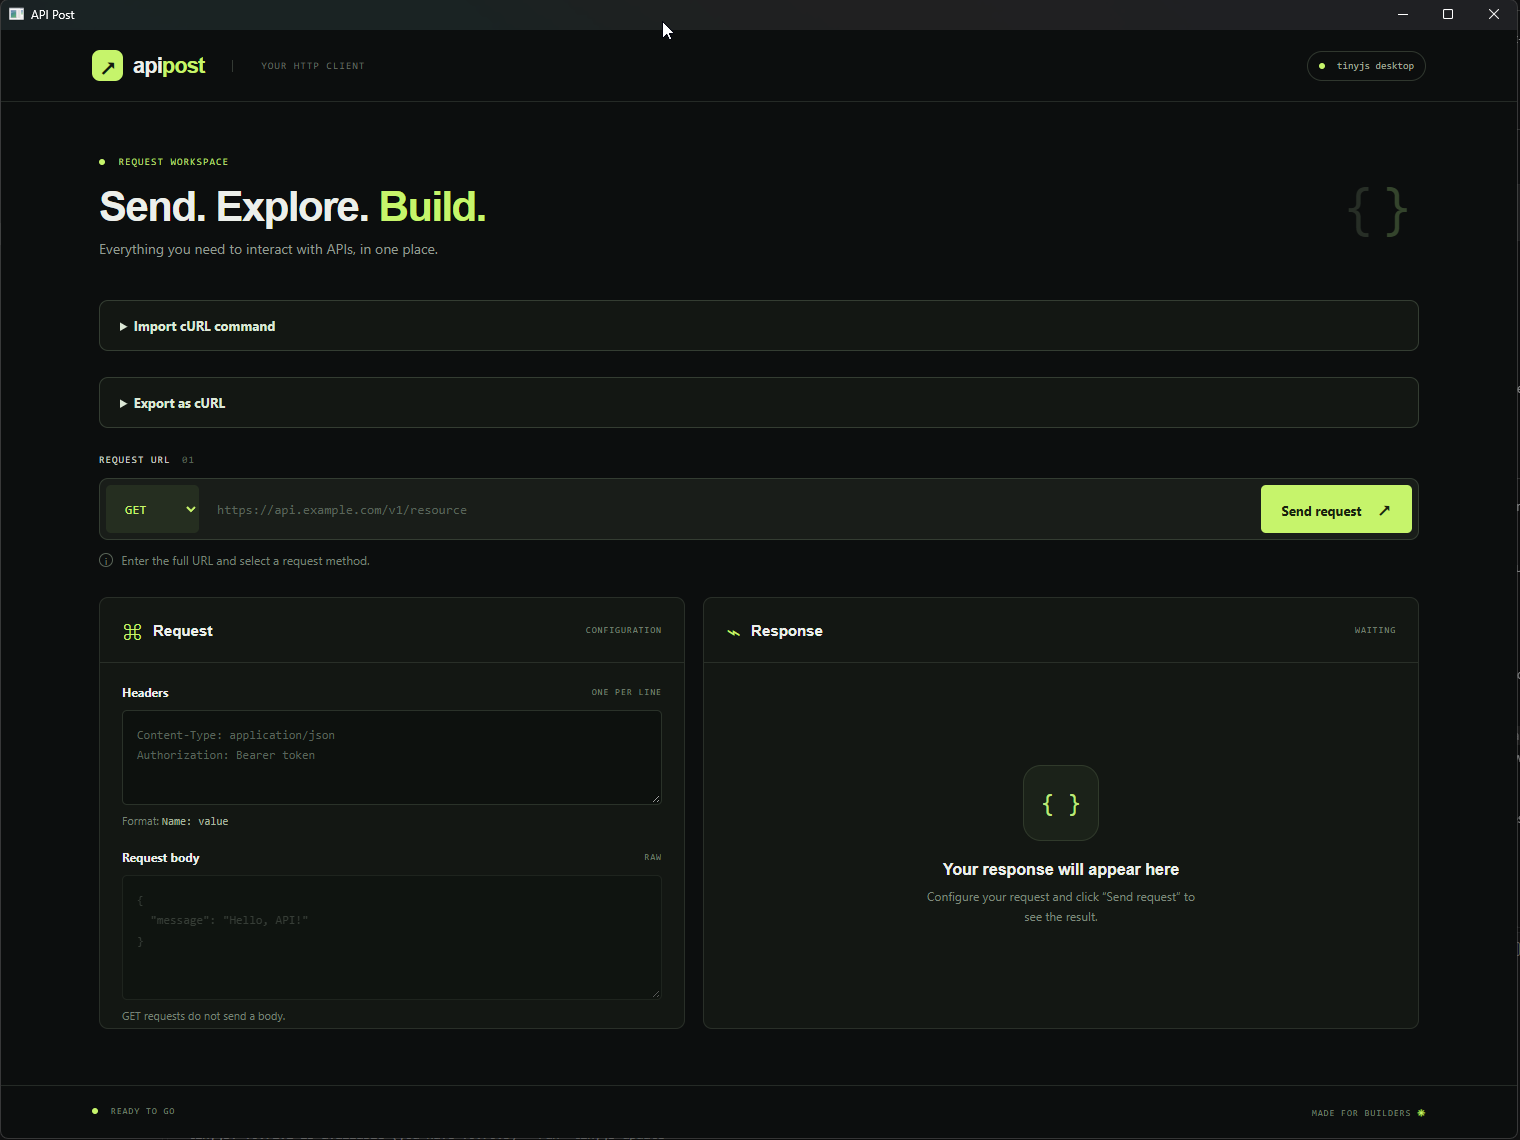
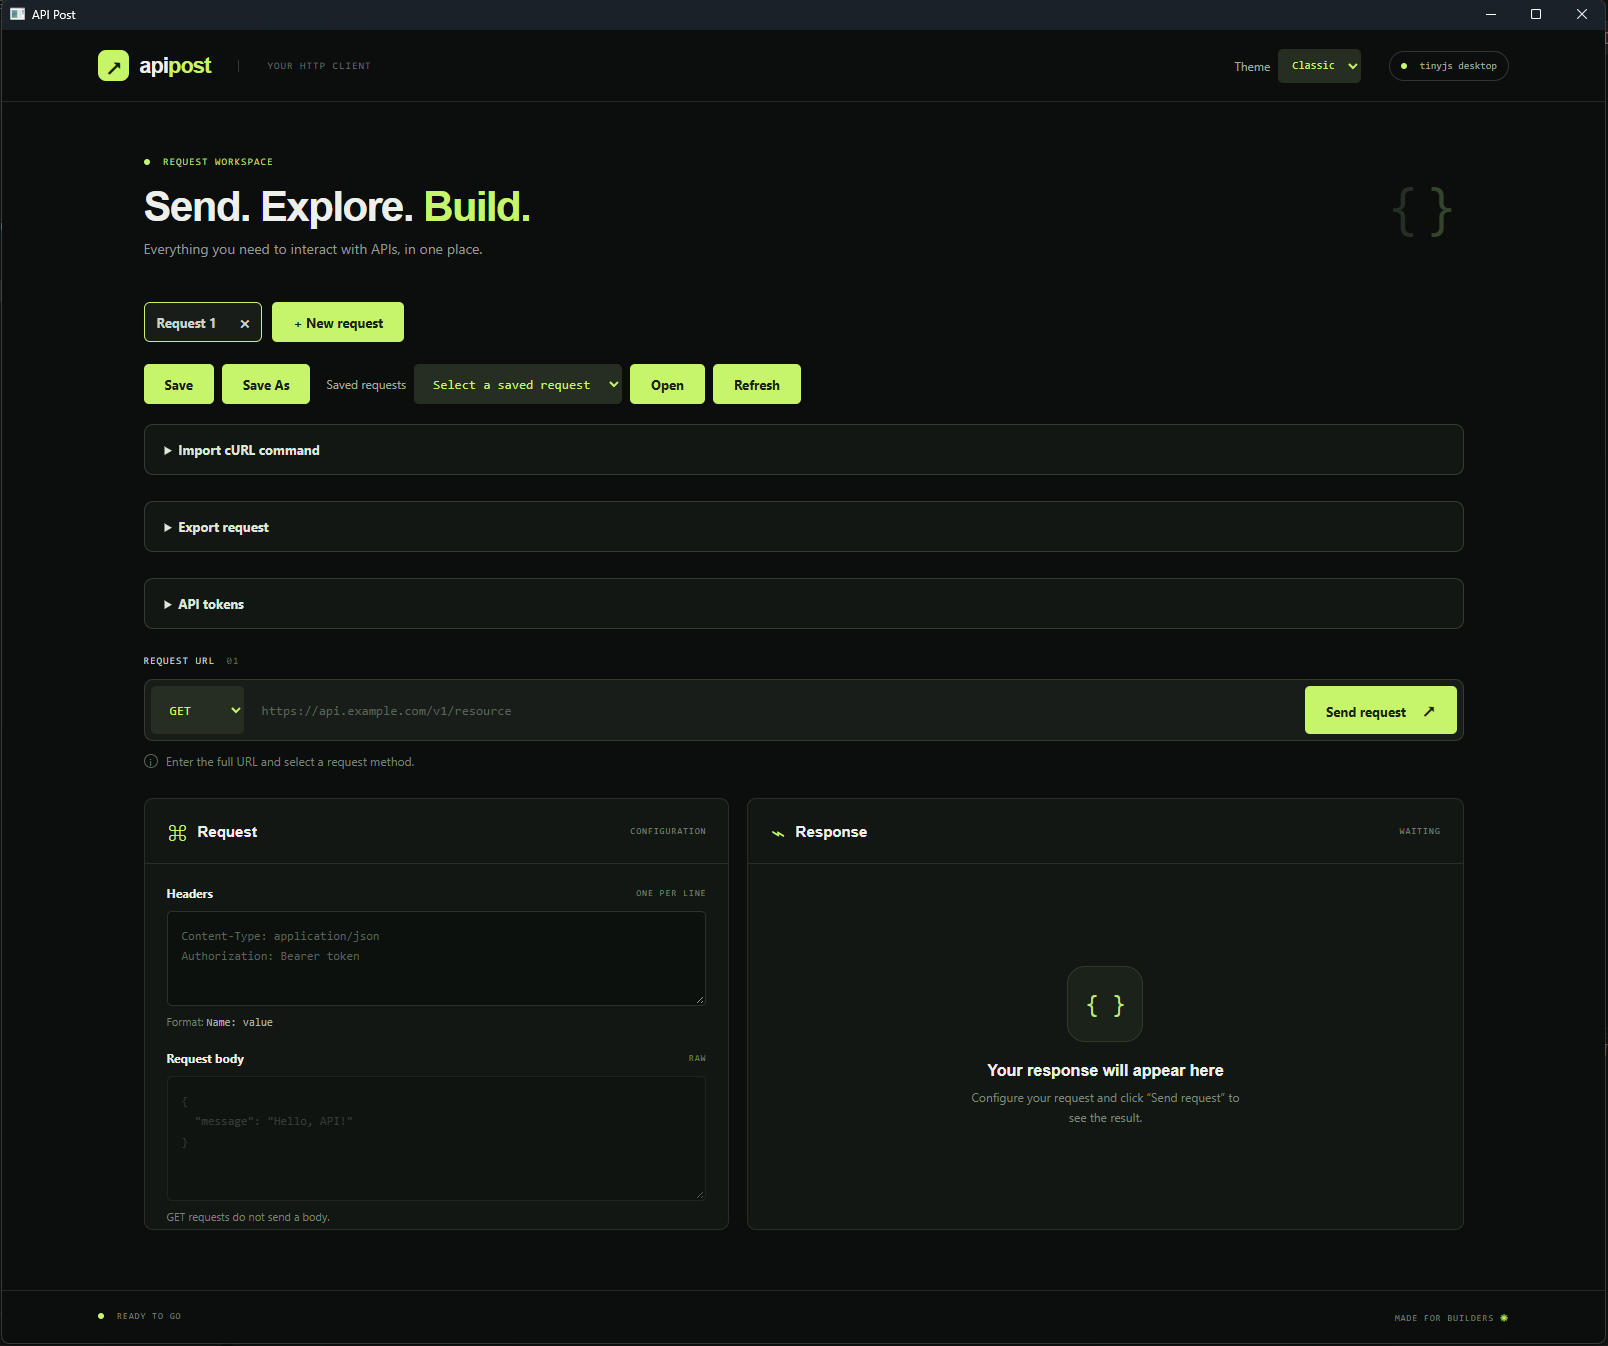
Enhance export functionality with multiple formats and improve UI for request export

diff --git a/src/frontend/curl.js b/src/frontend/curl.js
@@ -148,7 +148,9 @@ function parseCurl(command) {
   return { url, method, headers: headers.map(([name, value]) => `${name}: ${value}`).join('\n'), body: data.join('&') };
 }
 
-function exportCurl({ url, method, headers, body }) {
+const HEADER_NAME = /^[!#$%&'*+.^_`|~0-9A-Za-z-]+$/;
+
+function prepareExport({ url, method, headers, body }) {
   let parsedUrl;
   try {
     parsedUrl = new URL(url);
@@ -159,27 +161,85 @@ function exportCurl({ url, method, headers, body }) {
   if (parsedUrl.username || parsedUrl.password) throw new Error('URLs containing credentials cannot be exported.');
   if (!['GET', 'POST', 'PUT', 'PATCH', 'DELETE', 'HEAD'].includes(method)) throw new Error(`Unsupported request method: ${method}`);
 
+  const entries = Object.entries(headers);
+  for (const [name, value] of entries) {
+    if (!HEADER_NAME.test(name) || /[\r\n\0]/.test(value)) throw new Error(`Invalid header: ${name}`);
+  }
+  const hasBody = method !== 'GET' && method !== 'HEAD' && body !== '';
+  if (hasBody && !entries.some(([name]) => name.toLowerCase() === 'content-type')) {
+    entries.push(['Content-Type', 'text/plain;charset=UTF-8']);
+  }
+  return { url, method, headers: entries, body: hasBody ? body : null };
+}
+
+function shellQuote(value) {
+  if (value.includes('\0')) throw new Error('NUL characters cannot be represented in a shell command.');
+  return `'${value.replace(/'/g, "'\\''")}'`;
+}
+
+function curlArguments(request) {
+  const args = ['--globoff', '--location', `--url=${shellQuote(request.url)}`];
+  args.push(request.method === 'HEAD' ? '--head' : `--request=${shellQuote(request.method)}`);
+  for (const [name, value] of request.headers) {
+    args.push(`--header=${shellQuote(value ? `${name}: ${value}` : `${name};`)}`);
+  }
+  if (request.body !== null) args.push(`--data-raw=${shellQuote(request.body)}`);
+  return args;
+}
+
+function exportCurl(request) {
+  return ['curl', ...curlArguments(prepareExport(request))].join(' ');
+}
+
+function exportBash(request) {
+  const lines = ['curl', ...curlArguments(prepareExport(request))];
+  return `#!/usr/bin/env bash\nset -euo pipefail\n\n${lines.join(' \\\n  ')}\n`;
+}
+
+function exportPowerShell(request) {
+  // PowerShell treats typographic single quotes as quote characters too.
   const quote = (value) => {
-    if (value.includes('\0')) throw new Error('NUL characters cannot be represented in a shell command.');
-    return `'${value.replace(/'/g, "'\\''")}'`;
+    if (value.includes('\0')) throw new Error('NUL characters cannot be represented in a PowerShell script.');
+    return `'${value.replace(/['\u2018\u2019\u201A\u201B]/g, (char) => char + char)}'`;
   };
-  const command = ['curl', '--globoff', '--location', `--url=${quote(url)}`];
-  if (method === 'HEAD') command.push('--head');
-  else command.push(`--request=${quote(method)}`);
-  for (const [name, value] of Object.entries(headers)) {
-    if (!/^[!#$%&'*+.^_`|~0-9A-Za-z-]+$/.test(name) || /[\r\n\0]/.test(value)) {
-      throw new Error(`Invalid header: ${name}`);
-    }
-    command.push(`--header=${quote(value ? `${name}: ${value}` : `${name};`)}`);
+  const prepared = prepareExport(request);
+  let headers = prepared.headers;
+  let contentType = null;
+  if (prepared.body !== null) {
+    contentType = headers.find(([name]) => name.toLowerCase() === 'content-type')[1];
+    headers = headers.filter(([name]) => name.toLowerCase() !== 'content-type');
   }
-  if (method !== 'GET' && method !== 'HEAD' && body !== '') {
-    if (!Object.keys(headers).some((name) => name.toLowerCase() === 'content-type')) {
-      command.push(`--header=${quote('Content-Type: text/plain;charset=UTF-8')}`);
-    }
-    command.push(`--data-raw=${quote(body)}`);
+  const lines = ['$params = @{', `    Uri = ${quote(prepared.url)}`, `    Method = ${quote(prepared.method)}`];
+  if (headers.length) {
+    lines.push('    Headers = @{', ...headers.map(([name, value]) => `        ${quote(name)} = ${quote(value)}`), '    }');
   }
-  return command.join(' ');
+  if (contentType !== null) lines.push(`    ContentType = ${quote(contentType)}`);
+  if (prepared.body !== null) lines.push(`    Body = ${quote(prepared.body)}`);
+  lines.push('    UseBasicParsing = $true', '}', '', '$response = Invoke-WebRequest @params', '$response.StatusCode', '$response.Content');
+  return `${lines.join('\n')}\n`;
+}
+
+function exportPython(request) {
+  // A JSON string literal is also a valid Python string literal.
+  const quote = (value) => JSON.stringify(value);
+  const prepared = prepareExport(request);
+  const lines = ['import requests', '', 'response = requests.request(', `    ${quote(prepared.method)},`, `    ${quote(prepared.url)},`];
+  if (prepared.headers.length) {
+    lines.push('    headers={', ...prepared.headers.map(([name, value]) => `        ${quote(name)}: ${quote(value)},`), '    },');
+  }
+  if (prepared.body !== null) lines.push(`    data=${quote(prepared.body)}.encode("utf-8"),`);
+  lines.push(')', '', 'print(response.status_code)', 'print(response.text)');
+  return `${lines.join('\n')}\n`;
+}
+
+const EXPORTERS = { curl: exportCurl, bash: exportBash, powershell: exportPowerShell, python: exportPython };
+
+function exportRequest(format, request) {
+  const exporter = Object.hasOwn(EXPORTERS, format) ? EXPORTERS[format] : undefined;
+  if (!exporter) throw new Error(`Unsupported export format: ${format}`);
+  return exporter(request);
 }
 
 globalThis.parseCurl = parseCurl;
 globalThis.exportCurl = exportCurl;
+globalThis.exportRequest = exportRequest;

diff --git a/tests/curl.test.js b/tests/curl.test.js
@@ -4,6 +4,7 @@ import '../src/frontend/curl.js';
 
 const parseCurl = globalThis.parseCurl;
 const exportCurl = globalThis.exportCurl;
+const exportRequest = globalThis.exportRequest;
 
 test('imports a quoted multiline POST with headers and JSON', () => {
   const command = `curl 'https://example.com/api?x=1&y=2' \\
@@ -95,3 +96,66 @@ test('rejects request values that cannot be exported faithfully', () => {
   assert.throws(() => exportCurl({ ...request, headers: { 'bad name': 'x' } }), /Invalid header/);
   assert.throws(() => exportCurl({ ...request, body: 'x\0y' }), /NUL/);
 });
+
+const sample = {
+  url: 'https://example.com/a?x=1&y=2',
+  method: 'POST',
+  headers: { 'Content-Type': 'application/json', 'X-Note': "it's \u2018quoted\u2019" },
+  body: '{"text":"it\'s $HOME","line":"a\\nb"}\nsecond',
+};
+
+test('exportRequest curl matches exportCurl and rejects unknown formats', () => {
+  assert.equal(exportRequest('curl', sample), exportCurl(sample));
+  assert.throws(() => exportRequest('ruby', sample), /Unsupported export format/);
+  assert.throws(() => exportRequest('toString', sample), /Unsupported export format/);
+});
+
+test('exports a Bash script that wraps the same cURL arguments', () => {
+  const script = exportRequest('bash', sample);
+  assert.match(script, /^#!\/usr\/bin\/env bash\nset -euo pipefail\n\ncurl \\\n  --globoff \\\n  --location \\\n  --url=/);
+  const command = script.split('\n\n')[1].replace(/ \\\n {2}/g, ' ').trim();
+  assert.deepEqual(parseCurl(command), parseCurl(exportCurl(sample)));
+});
+
+test('exports PowerShell with escaped quotes and a ContentType parameter', () => {
+  const script = exportRequest('powershell', sample);
+  assert.match(script, /Uri = 'https:\/\/example\.com\/a\?x=1&y=2'/);
+  assert.match(script, /Method = 'POST'/);
+  assert.match(script, /ContentType = 'application\/json'/);
+  assert.doesNotMatch(script, /'Content-Type'/);
+  assert.match(script, /'X-Note' = 'it''s \u2018\u2018quoted\u2019\u2019'/);
+  assert.match(script, /Body = '\{"text":"it''s \$HOME","line":"a\\nb"\}\nsecond'/);
+  assert.match(script, /Invoke-WebRequest @params/);
+  assert.match(exportRequest('powershell', { ...sample, method: 'GET', headers: { 'Content-Type': 'text/plain' } }), /Headers = @\{\n {8}'Content-Type' = 'text\/plain'/);
+  assert.throws(() => exportRequest('powershell', { ...sample, body: 'x\0y' }), /NUL/);
+});
+
+test('exports Python with valid string literals and a default Content-Type', () => {
+  const script = exportRequest('python', { url: 'https://example.com', method: 'PUT', headers: { 'X-A': 'q"\\' }, body: 'é\0"' });
+  assert.equal(script, [
+    'import requests',
+    '',
+    'response = requests.request(',
+    '    "PUT",',
+    '    "https://example.com",',
+    '    headers={',
+    '        "X-A": "q\\"\\\\",',
+    '        "Content-Type": "text/plain;charset=UTF-8",',
+    '    },',
+    '    data="é\\u0000\\"".encode("utf-8"),',
+    ')',
+    '',
+    'print(response.status_code)',
+    'print(response.text)',
+    '',
+  ].join('\n'));
+  assert.doesNotMatch(exportRequest('python', { ...sample, method: 'GET' }), /data=/);
+});
+
+test('all export formats validate the request', () => {
+  for (const format of ['curl', 'bash', 'powershell', 'python']) {
+    assert.throws(() => exportRequest(format, { ...sample, url: 'file:///x' }), /HTTP and HTTPS/);
+    assert.throws(() => exportRequest(format, { ...sample, headers: { 'bad name': 'x' } }), /Invalid header/);
+  }
+});
+

diff --git a/src/frontend/app.js b/src/frontend/app.js
@@ -247,16 +247,37 @@ $('tab-open').addEventListener('click', () => withTabFiles(async () => {
 }));
 withTabFiles(refreshSavedTabs);
 
+const exportHelp = {
+  curl: 'Single-line cURL command using POSIX shell syntax. It may contain credentials.',
+  bash: 'Bash script using cURL (requires curl). It may contain credentials.',
+  powershell: 'PowerShell script using Invoke-WebRequest. It may contain credentials.',
+  python: 'Python script using the requests library. It may contain credentials.',
+};
+const exportFormatInputs = document.querySelectorAll('input[name="export-format"]');
+const exportFormat = () => document.querySelector('input[name="export-format"]:checked').value;
+const exportLabel = () => document.querySelector('input[name="export-format"]:checked').parentElement.textContent.trim();
+
 function clearCurlExport() {
   $('curl-export-output').value = '';
   $('curl-copy').disabled = true;
   $('curl-export-message').hidden = true;
 }
 
+function updateExportHelp() {
+  $('export-help').textContent = exportHelp[exportFormat()];
+}
+
 for (const id of ['url', 'method', 'headers', 'body']) {
   $(id).addEventListener('input', clearCurlExport);
   $(id).addEventListener('change', clearCurlExport);
 }
+for (const input of exportFormatInputs) {
+  input.addEventListener('change', () => {
+    clearCurlExport();
+    updateExportHelp();
+  });
+}
+updateExportHelp();
 
 method.addEventListener('change', updateBodyState);
 updateBodyState();
@@ -362,17 +383,17 @@ $('curl-export').addEventListener('click', () => {
   const message = $('curl-export-message');
   clearCurlExport();
   try {
-    $('curl-export-output').value = exportCurl({
+    $('curl-export-output').value = exportRequest(exportFormat(), {
       url: $('url').value.trim(),
       method: method.value,
       headers: parseHeaders($('headers').value),
       body: body.value,
     });
     $('curl-copy').disabled = false;
-    message.textContent = 'Command generated. Review it before sharing or running it.';
+    message.textContent = `${exportLabel()} code generated. Review it before sharing or running it.`;
     message.className = 'curl-message success';
   } catch (error) {
-    message.textContent = `Could not export cURL: ${error instanceof Error ? error.message : String(error)}`;
+    message.textContent = `Could not export ${exportLabel()}: ${error instanceof Error ? error.message : String(error)}`;
     message.className = 'curl-message import-error';
   }
   message.hidden = false;
@@ -382,10 +403,10 @@ $('curl-copy').addEventListener('click', async () => {
   const message = $('curl-export-message');
   try {
     await tiny.clipboard.write({ text: $('curl-export-output').value });
-    message.textContent = 'Command copied to the clipboard.';
+    message.textContent = 'Code copied to the clipboard.';
     message.className = 'curl-message success';
   } catch (error) {
-    message.textContent = `Could not copy command: ${error instanceof Error ? error.message : String(error)}`;
+    message.textContent = `Could not copy code: ${error instanceof Error ? error.message : String(error)}`;
     message.className = 'curl-message import-error';
   }
   message.hidden = false;

diff --git a/src/frontend/index.html b/src/frontend/index.html
@@ -60,15 +60,22 @@
           </div>
         </details>
         <details class="curl-import">
-          <summary>Export as cURL</summary>
+          <summary>Export request</summary>
           <div class="curl-content">
-            <label for="curl-export-output">Generated cURL command</label>
-            <textarea id="curl-export-output" readonly spellcheck="false" placeholder="Generate a command from the current request."></textarea>
+            <fieldset class="export-formats">
+              <legend>Format</legend>
+              <label><input type="radio" name="export-format" value="curl" checked> cURL</label>
+              <label><input type="radio" name="export-format" value="bash"> Bash</label>
+              <label><input type="radio" name="export-format" value="powershell"> PowerShell</label>
+              <label><input type="radio" name="export-format" value="python"> Python</label>
+            </fieldset>
+            <label for="curl-export-output">Exported code</label>
+            <textarea id="curl-export-output" readonly spellcheck="false" placeholder="Select a format and click Export to generate code from the current request."></textarea>
             <div class="curl-actions">
-              <p class="field-help">Uses POSIX shell syntax. The command may contain credentials.</p>
+              <p id="export-help" class="field-help"></p>
               <div class="curl-buttons">
-                <button id="curl-export" type="button">Generate command</button>
-                <button id="curl-copy" type="button" disabled>Copy command</button>
+                <button id="curl-export" type="button">Export</button>
+                <button id="curl-copy" type="button" disabled>Copy</button>
               </div>
             </div>
             <div id="curl-export-message" class="curl-message" role="status" aria-live="polite" hidden></div>

diff --git a/src/frontend/style.css b/src/frontend/style.css
@@ -48,6 +48,10 @@ h1 span { color: #c6f46b; }
 .curl-actions .field-help { margin: 0; }
 .curl-actions button { min-height: 40px; }
 .curl-buttons { display: flex; flex-wrap: wrap; gap: 8px; }
+.export-formats { border: 0; margin: 0 0 14px; padding: 0; display: flex; flex-wrap: wrap; gap: 8px 22px; }
+.export-formats legend { font-size: 12px; font-weight: 700; padding: 0; margin-bottom: 10px; }
+.curl-content .export-formats label { display: flex; align-items: center; gap: 8px; margin: 0; font-weight: 400; cursor: pointer; }
+.export-formats input { flex: none; padding: 0; margin: 0; accent-color: #a2cc69; }
 .auth-fields { display: grid; grid-template-columns: repeat(3, minmax(0, 1fr)); gap: 14px; margin-top: 18px; }
 .auth-fields input, .auth-fields select { width: 100%; min-height: 42px; border: 1px solid #2a3229; border-radius: 5px; background: #0d110e; padding: 0 12px; }
 .auth-fields select { color: #edf2e8; }

diff --git a/README.md b/README.md
@@ -48,7 +48,7 @@ The app stores tokens in `auth-keys.json` in its **working directory** (the proj
 
 In **API tokens**, enter a name and token and choose **Save token**, or select a saved name and choose **Load token**. Saving an existing name replaces its value. **Use as Bearer** puts the entered or loaded token in the `Authorization: Bearer ...` request header, replacing any existing Authorization header; it does not send the request. Refresh the list after editing the file externally.
 
-`auth-keys.json` is ignored by Git; commit only `auth-keys-example.json` without real tokens. **Tokens are stored as plaintext, not encrypted.** Protect the file with appropriate filesystem permissions and do not share or commit it. The token can also appear in request headers, exported cURL commands and the clipboard. The example contains an empty object, not credentials.
+`auth-keys.json` is ignored by Git; commit only `auth-keys-example.json` without real tokens. **Tokens are stored as plaintext, not encrypted.** Protect the file with appropriate filesystem permissions and do not share or commit it. The token can also appear in request headers, in code produced by **Export request** (cURL, Bash, PowerShell, and Python), and in the clipboard. The example contains an empty object, not credentials.
 
 For a built application, the location of `auth-keys.json` depends on the working directory from which the app is launched, not on the executable's location. Invalid non-empty files are never overwritten and must be corrected before saving. Save operations replace the file atomically, but concurrent edits by other application instances or external programs are not coordinated.
 
@@ -60,8 +60,17 @@ The importer accepts a single `curl` command using POSIX shell quoting and backs
 
 Unsupported options, file inputs, shell expansion, multiple URLs, duplicate headers, and request bodies with GET or HEAD are rejected. Empty headers use cURL's `Name;` syntax. This is not a shell: use literal values instead of environment variables or command substitution. Imported requests use the app's normal HTTP behavior, including automatic redirects; they do not reproduce all cURL transport behavior.
 
-### Exporting cURL
+### Exporting a request
 
-Open **Export as cURL** and select **Generate command**, then copy the command or use **Copy command**. Regenerate it after changing the request. The command uses POSIX shell quoting (for example, in macOS or Linux terminals), not Windows Command Prompt or PowerShell syntax. It includes the request's headers and body, which may contain credentials or other sensitive data; review it before sharing.
+Open **Export request** (the panel is collapsed by default), choose a format with the radio buttons, and click **Export**. The generated code appears in the read-only **Exported code** field; use **Copy** to copy it to the clipboard. The output is cleared when you change the request fields or switch the format, so regenerate it before copying. The code includes the request's headers and body, which may contain credentials or other sensitive data; review it before sharing.
 
-The export follows redirects and disables cURL URL globbing. For a non-empty body without a `Content-Type` header, it explicitly uses the application's default `text/plain;charset=UTF-8`. The command represents the request fields, not every detail of tinyjs networking; cURL configuration and transport behavior may differ. In particular, redirect handling with an explicit request method may differ from the app.
+Formats:
+
+- **cURL** (default): a single-line command using POSIX shell quoting (macOS or Linux terminals), not Windows Command Prompt or PowerShell syntax.
+- **Bash**: a script with a `#!/usr/bin/env bash` header and `set -euo pipefail`, containing the same cURL command with one argument per line; requires `curl`.
+- **PowerShell**: a script that builds a parameter table and calls `Invoke-WebRequest` with `UseBasicParsing`, then prints the status code and content. Single quotes are doubled, including typographic quotes, which PowerShell also treats as quote characters.
+- **Python**: a script that calls `requests.request` and prints the status code and text; requires the third-party `requests` package (`pip install requests`). The body is sent as UTF-8 bytes.
+
+All formats follow redirects and disable cURL URL globbing. For a non-empty body without a `Content-Type` header, the export explicitly uses the application's default `text/plain;charset=UTF-8`; in PowerShell it is passed as `ContentType` instead of a header entry. GET and HEAD requests never include a body. Export rejects URLs that are not HTTP or HTTPS, URLs containing credentials, unsupported methods, invalid header names or values, and values containing NUL characters.
+
+The code represents the request fields, not every detail of tinyjs networking; client configuration and transport behavior may differ. In particular, redirect handling with an explicit request method may differ from the app.
